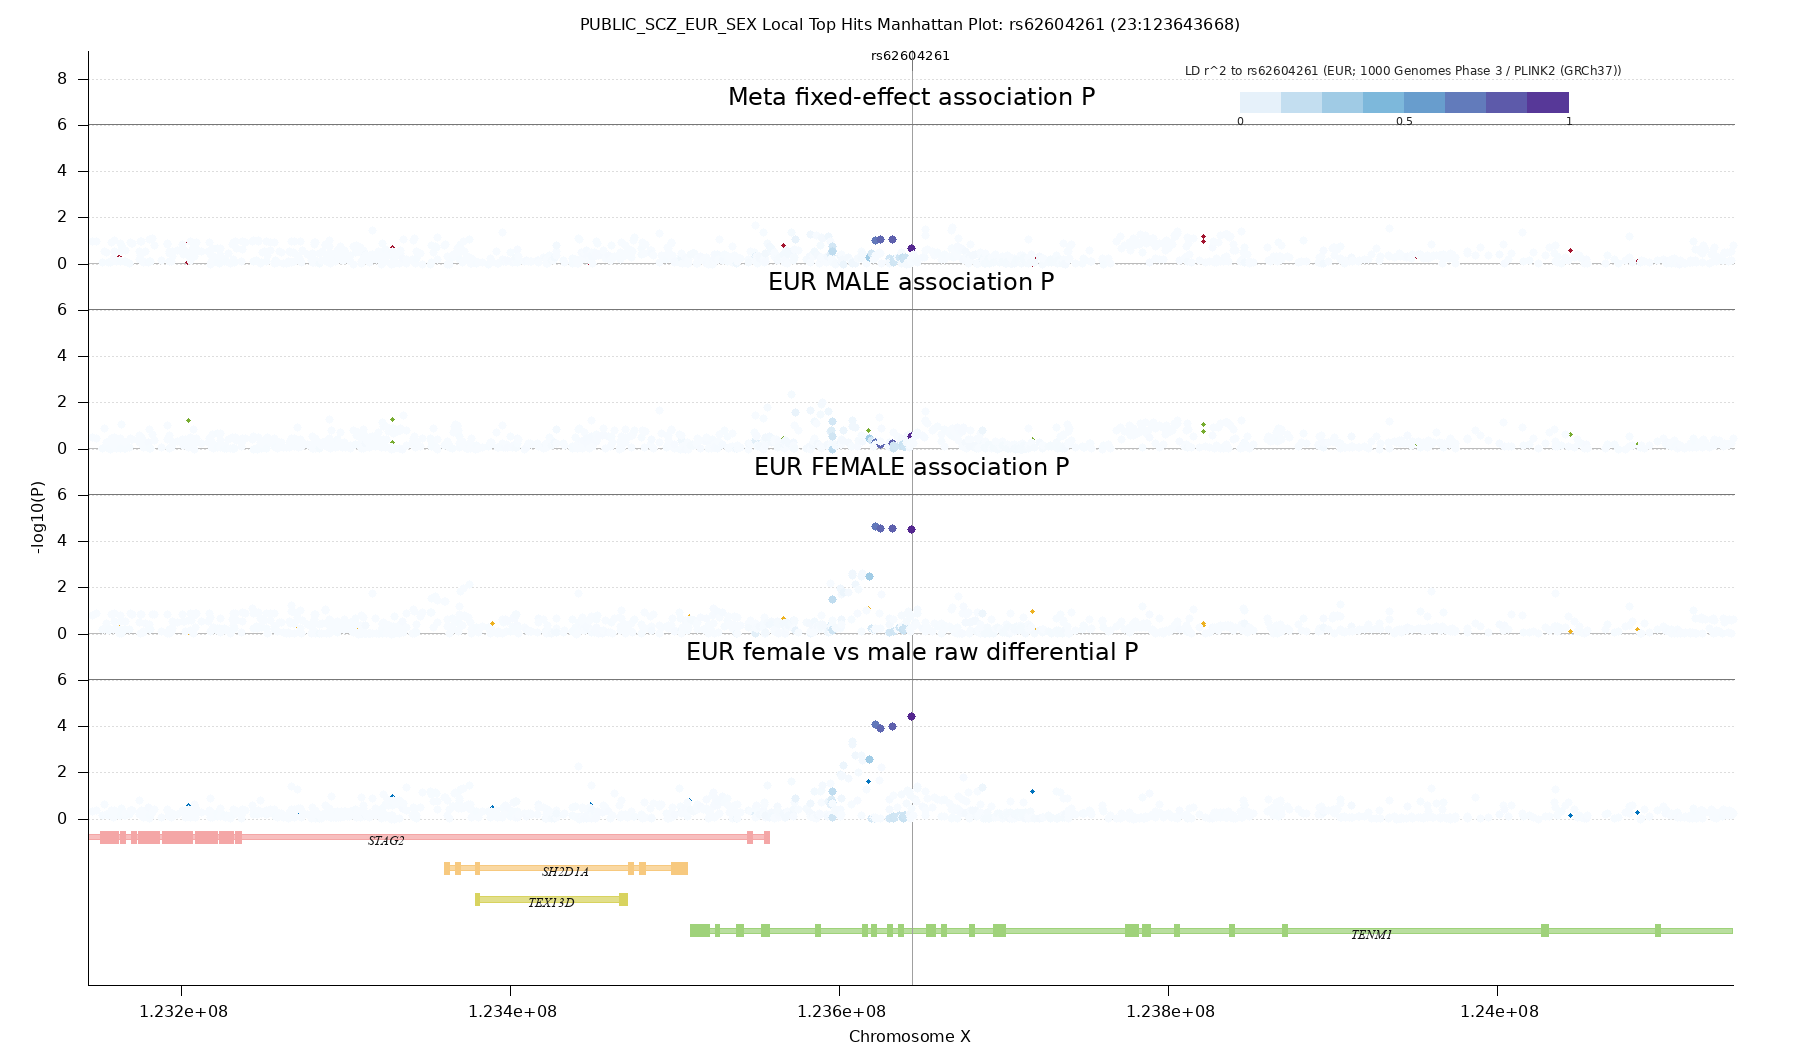
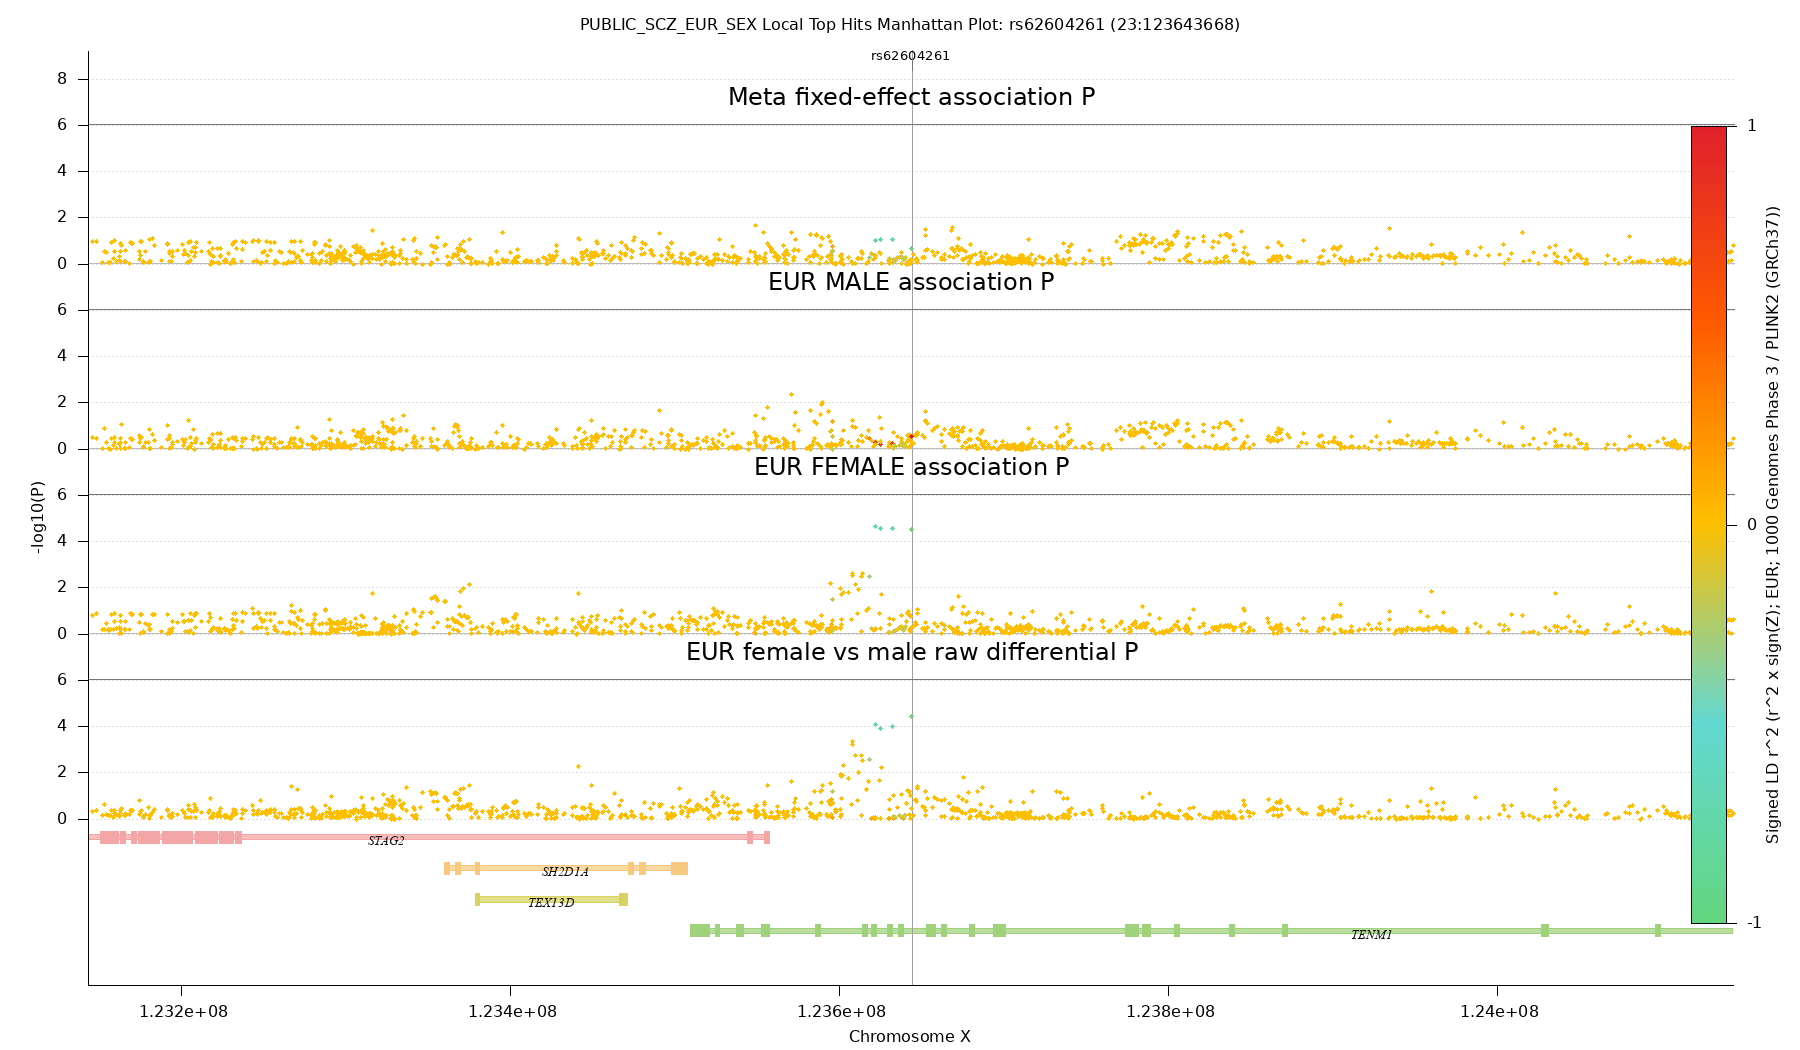
Use signed LD in gnuplot local Manhattan plots

diff --git a/README.md b/README.md
@@ -89,22 +89,6 @@ targets are `rs2232429` (common association), `rs185665940` (autosomal
 differential signal), and `rs62604261` (chromosome-X differential signal).
 Click any figure to open its full-resolution PNG.
 
-#### gnuplot outputs
-
-| Genome-wide Manhattan | Combined local Manhattan |
-| --- | --- |
-| [![gnuplot genome-wide Manhattan](MultiGWAS-Explorer/examples/public-scz-sex/figures/gunplot/PUBLIC_SCZ_EUR_SEX_GUNPLOT_manhattan.png)](MultiGWAS-Explorer/examples/public-scz-sex/figures/gunplot/PUBLIC_SCZ_EUR_SEX_GUNPLOT_manhattan.png) | [![gnuplot combined local Manhattan](MultiGWAS-Explorer/examples/public-scz-sex/figures/gunplot/PUBLIC_SCZ_EUR_SEX_GUNPLOT_local_top_hits_manhattan.png)](MultiGWAS-Explorer/examples/public-scz-sex/figures/gunplot/PUBLIC_SCZ_EUR_SEX_GUNPLOT_local_top_hits_manhattan.png) |
-| Local Manhattan: `rs2232429` | Local Manhattan: `rs185665940` |
-| [![gnuplot local Manhattan rs2232429](MultiGWAS-Explorer/examples/public-scz-sex/figures/gunplot/PUBLIC_SCZ_EUR_SEX_GUNPLOT_local_top_hits_manhattan_rs2232429.png)](MultiGWAS-Explorer/examples/public-scz-sex/figures/gunplot/PUBLIC_SCZ_EUR_SEX_GUNPLOT_local_top_hits_manhattan_rs2232429.png) | [![gnuplot local Manhattan rs185665940](MultiGWAS-Explorer/examples/public-scz-sex/figures/gunplot/PUBLIC_SCZ_EUR_SEX_GUNPLOT_local_top_hits_manhattan_rs185665940.png)](MultiGWAS-Explorer/examples/public-scz-sex/figures/gunplot/PUBLIC_SCZ_EUR_SEX_GUNPLOT_local_top_hits_manhattan_rs185665940.png) |
-| Local Manhattan: `rs62604261` | Signed-LD gene track: `rs2232429` |
-| [![gnuplot local Manhattan rs62604261](MultiGWAS-Explorer/examples/public-scz-sex/figures/gunplot/PUBLIC_SCZ_EUR_SEX_GUNPLOT_local_top_hits_manhattan_rs62604261.png)](MultiGWAS-Explorer/examples/public-scz-sex/figures/gunplot/PUBLIC_SCZ_EUR_SEX_GUNPLOT_local_top_hits_manhattan_rs62604261.png) | [![gnuplot signed LD gene track rs2232429](MultiGWAS-Explorer/examples/public-scz-sex/figures/gunplot/PUBLIC_SCZ_EUR_SEX_GUNPLOT_local_top_hits_with_gtf_rs2232429.png)](MultiGWAS-Explorer/examples/public-scz-sex/figures/gunplot/PUBLIC_SCZ_EUR_SEX_GUNPLOT_local_top_hits_with_gtf_rs2232429.png) |
-| Signed-LD gene track: `rs185665940` | Signed-LD gene track: `rs62604261` |
-| [![gnuplot signed LD gene track rs185665940](MultiGWAS-Explorer/examples/public-scz-sex/figures/gunplot/PUBLIC_SCZ_EUR_SEX_GUNPLOT_local_top_hits_with_gtf_rs185665940.png)](MultiGWAS-Explorer/examples/public-scz-sex/figures/gunplot/PUBLIC_SCZ_EUR_SEX_GUNPLOT_local_top_hits_with_gtf_rs185665940.png) | [![gnuplot signed LD gene track rs62604261](MultiGWAS-Explorer/examples/public-scz-sex/figures/gunplot/PUBLIC_SCZ_EUR_SEX_GUNPLOT_local_top_hits_with_gtf_rs62604261.png)](MultiGWAS-Explorer/examples/public-scz-sex/figures/gunplot/PUBLIC_SCZ_EUR_SEX_GUNPLOT_local_top_hits_with_gtf_rs62604261.png) |
-| Female forest plot | Male forest plot |
-| [![gnuplot female forest plot](MultiGWAS-Explorer/examples/public-scz-sex/figures/gunplot/PUBLIC_SCZ_EUR_SEX_GUNPLOT_top_hits_forest_EUR_FEMALE.png)](MultiGWAS-Explorer/examples/public-scz-sex/figures/gunplot/PUBLIC_SCZ_EUR_SEX_GUNPLOT_top_hits_forest_EUR_FEMALE.png) | [![gnuplot male forest plot](MultiGWAS-Explorer/examples/public-scz-sex/figures/gunplot/PUBLIC_SCZ_EUR_SEX_GUNPLOT_top_hits_forest_EUR_MALE.png)](MultiGWAS-Explorer/examples/public-scz-sex/figures/gunplot/PUBLIC_SCZ_EUR_SEX_GUNPLOT_top_hits_forest_EUR_MALE.png) |
-| Combined female/male forest plot | |
-| [![gnuplot combined forest plot](MultiGWAS-Explorer/examples/public-scz-sex/figures/gunplot/PUBLIC_SCZ_EUR_SEX_GUNPLOT_top_hits_forest_combined.png)](MultiGWAS-Explorer/examples/public-scz-sex/figures/gunplot/PUBLIC_SCZ_EUR_SEX_GUNPLOT_top_hits_forest_combined.png) | |
-
 #### SAS OnDemand for Academics outputs
 
 | Genome-wide Manhattan | Combined local Manhattan |
@@ -120,6 +104,22 @@ Click any figure to open its full-resolution PNG.
 | [![SAS ODA signed LD gene track rs62604261](MultiGWAS-Explorer/examples/public-scz-sex/figures/sas/PUBLIC_SCZ_EUR_SEX_SAS_local_top_hits_with_gtf_rs62604261.png)](MultiGWAS-Explorer/examples/public-scz-sex/figures/sas/PUBLIC_SCZ_EUR_SEX_SAS_local_top_hits_with_gtf_rs62604261.png) | [![SAS ODA female forest plot](MultiGWAS-Explorer/examples/public-scz-sex/figures/sas/PUBLIC_SCZ_EUR_SEX_SAS_top_hits_forest_EUR_FEMALE.png)](MultiGWAS-Explorer/examples/public-scz-sex/figures/sas/PUBLIC_SCZ_EUR_SEX_SAS_top_hits_forest_EUR_FEMALE.png) |
 | Male forest plot | |
 | [![SAS ODA male forest plot](MultiGWAS-Explorer/examples/public-scz-sex/figures/sas/PUBLIC_SCZ_EUR_SEX_SAS_top_hits_forest_EUR_MALE.png)](MultiGWAS-Explorer/examples/public-scz-sex/figures/sas/PUBLIC_SCZ_EUR_SEX_SAS_top_hits_forest_EUR_MALE.png) | |
+
+#### gnuplot outputs
+
+| Genome-wide Manhattan | Combined signed-LD local Manhattan |
+| --- | --- |
+| [![gnuplot genome-wide Manhattan](MultiGWAS-Explorer/examples/public-scz-sex/figures/gunplot/PUBLIC_SCZ_EUR_SEX_GUNPLOT_manhattan.png)](MultiGWAS-Explorer/examples/public-scz-sex/figures/gunplot/PUBLIC_SCZ_EUR_SEX_GUNPLOT_manhattan.png) | [![gnuplot combined signed LD local Manhattan](MultiGWAS-Explorer/examples/public-scz-sex/figures/gunplot/PUBLIC_SCZ_EUR_SEX_GUNPLOT_local_top_hits_manhattan.png)](MultiGWAS-Explorer/examples/public-scz-sex/figures/gunplot/PUBLIC_SCZ_EUR_SEX_GUNPLOT_local_top_hits_manhattan.png) |
+| Signed-LD local Manhattan: `rs2232429` | Signed-LD local Manhattan: `rs185665940` |
+| [![gnuplot signed LD local Manhattan rs2232429](MultiGWAS-Explorer/examples/public-scz-sex/figures/gunplot/PUBLIC_SCZ_EUR_SEX_GUNPLOT_local_top_hits_manhattan_rs2232429.png)](MultiGWAS-Explorer/examples/public-scz-sex/figures/gunplot/PUBLIC_SCZ_EUR_SEX_GUNPLOT_local_top_hits_manhattan_rs2232429.png) | [![gnuplot signed LD local Manhattan rs185665940](MultiGWAS-Explorer/examples/public-scz-sex/figures/gunplot/PUBLIC_SCZ_EUR_SEX_GUNPLOT_local_top_hits_manhattan_rs185665940.png)](MultiGWAS-Explorer/examples/public-scz-sex/figures/gunplot/PUBLIC_SCZ_EUR_SEX_GUNPLOT_local_top_hits_manhattan_rs185665940.png) |
+| Signed-LD local Manhattan: `rs62604261` | Signed-LD gene track: `rs2232429` |
+| [![gnuplot signed LD local Manhattan rs62604261](MultiGWAS-Explorer/examples/public-scz-sex/figures/gunplot/PUBLIC_SCZ_EUR_SEX_GUNPLOT_local_top_hits_manhattan_rs62604261.png)](MultiGWAS-Explorer/examples/public-scz-sex/figures/gunplot/PUBLIC_SCZ_EUR_SEX_GUNPLOT_local_top_hits_manhattan_rs62604261.png) | [![gnuplot signed LD gene track rs2232429](MultiGWAS-Explorer/examples/public-scz-sex/figures/gunplot/PUBLIC_SCZ_EUR_SEX_GUNPLOT_local_top_hits_with_gtf_rs2232429.png)](MultiGWAS-Explorer/examples/public-scz-sex/figures/gunplot/PUBLIC_SCZ_EUR_SEX_GUNPLOT_local_top_hits_with_gtf_rs2232429.png) |
+| Signed-LD gene track: `rs185665940` | Signed-LD gene track: `rs62604261` |
+| [![gnuplot signed LD gene track rs185665940](MultiGWAS-Explorer/examples/public-scz-sex/figures/gunplot/PUBLIC_SCZ_EUR_SEX_GUNPLOT_local_top_hits_with_gtf_rs185665940.png)](MultiGWAS-Explorer/examples/public-scz-sex/figures/gunplot/PUBLIC_SCZ_EUR_SEX_GUNPLOT_local_top_hits_with_gtf_rs185665940.png) | [![gnuplot signed LD gene track rs62604261](MultiGWAS-Explorer/examples/public-scz-sex/figures/gunplot/PUBLIC_SCZ_EUR_SEX_GUNPLOT_local_top_hits_with_gtf_rs62604261.png)](MultiGWAS-Explorer/examples/public-scz-sex/figures/gunplot/PUBLIC_SCZ_EUR_SEX_GUNPLOT_local_top_hits_with_gtf_rs62604261.png) |
+| Female forest plot | Male forest plot |
+| [![gnuplot female forest plot](MultiGWAS-Explorer/examples/public-scz-sex/figures/gunplot/PUBLIC_SCZ_EUR_SEX_GUNPLOT_top_hits_forest_EUR_FEMALE.png)](MultiGWAS-Explorer/examples/public-scz-sex/figures/gunplot/PUBLIC_SCZ_EUR_SEX_GUNPLOT_top_hits_forest_EUR_FEMALE.png) | [![gnuplot male forest plot](MultiGWAS-Explorer/examples/public-scz-sex/figures/gunplot/PUBLIC_SCZ_EUR_SEX_GUNPLOT_top_hits_forest_EUR_MALE.png)](MultiGWAS-Explorer/examples/public-scz-sex/figures/gunplot/PUBLIC_SCZ_EUR_SEX_GUNPLOT_top_hits_forest_EUR_MALE.png) |
+| Combined female/male forest plot | |
+| [![gnuplot combined forest plot](MultiGWAS-Explorer/examples/public-scz-sex/figures/gunplot/PUBLIC_SCZ_EUR_SEX_GUNPLOT_top_hits_forest_combined.png)](MultiGWAS-Explorer/examples/public-scz-sex/figures/gunplot/PUBLIC_SCZ_EUR_SEX_GUNPLOT_top_hits_forest_combined.png) | |
 
 Clone the repository and open
 [`examples/public-scz-sex/results.html`](MultiGWAS-Explorer/examples/public-scz-sex/results.html)

diff --git a/MultiGWAS-Explorer/README.md b/MultiGWAS-Explorer/README.md
@@ -2485,14 +2485,16 @@ so every estimable pair in the configured window is retained for coloring.
 not remove lower-r² values from the color map. The normalized sidecar and plot
 manifest record the complete available row count and a provenance signature.
 
-The gnuplot `local_gtf` plot defaults to a signed-LD heatmap. For GRCh38/hg38
+The gnuplot local Manhattan and `local_gtf` plots default to a signed-LD
+heatmap when Z scores and LD values are available. For GRCh38/hg38
 GWAS it downloads the matching chromosome from the official
 [PLINK2 1000 Genomes Phase 3 resources](https://www.cog-genomics.org/plink/2.0/resources)
 on first use; GRCh37/hg19 GWAS use the configured hg19 panel. It calculates
 phased r2 against each plotted target SNP. Downloaded reference files and the
 PLINK2 binary are cached locally and excluded from Git. Use
-`--ld-display-mode none` to turn off the gnuplot GTF heatmap, or `both` to add
-LD markers. The gnuplot local Manhattan default remains unchanged. A
+`--ld-display-mode none` to turn off the gnuplot heatmap, or `both` to add
+LD markers. Both local plot families color each point by `r² × sign(Z)` on a
+diverging scale from -1 to 1. A
 SAS ODA `plot_local_gtf` run with explicit target SNPs also defaults to the
 signed-LD heatmap when no LD display mode is set. For a merged-wide GWAS, it sorts and
 tabix-indexes the wide table once, reuses that index on later runs, and

diff --git a/MultiGWAS-Explorer/install/PUBLIC_GWAS_RESULTS.md b/MultiGWAS-Explorer/install/PUBLIC_GWAS_RESULTS.md
@@ -22,7 +22,9 @@ Manhattan and local GTF sidecars:
 Each locus has four association tracks, so the manifests record 9,620, 7,480,
 and 4,664 colored point records respectively. The focused Perl regression also
 verifies that a below-threshold proxy remains colored without receiving a
-high-LD marker.
+high-LD marker. Local Manhattan and local GTF panels both use the signed
+`R² × sign(Z)` scale from -1 to 1; this keeps direction and LD strength
+comparable across the two gnuplot plot families.
 
 ## Follow-up correction: forest text and output discoverability
 
@@ -105,6 +107,8 @@ The full numerical scan took 401 seconds; gnuplot genome-wide rendering took
 - Separate complete R² color data from thresholded high-LD markers. Heatmap
   caches now use PLINK2 minimum r² 0, and sidecars store marker status in a
   distinct column.
+- Apply `R² × sign(Z)` to gnuplot local Manhattan panels as well as gene-track
+  panels, and invalidate older unsigned local-plot caches.
 
 The first full standardized-index attempt failed before the path correction;
 the existing standardized table was subsequently indexed successfully without

diff --git a/MultiGWAS-Explorer/install/VALIDATION.md b/MultiGWAS-Explorer/install/VALIDATION.md
@@ -167,9 +167,11 @@ only. The local Manhattan and local GTF manifests agree and report:
 | rs185665940 | 15,367 | 1,870 | 8 |
 | rs62604261 | 7,519 | 1,166 | 21 |
 
-All six local PNGs were visually inspected: three local Manhattan plots show
-the full 0-to-1 R² scale, and three local GTF plots show the signed -1-to-1
-scale. Manifest provenance records the plotting TSV, threshold-0 PLINK2 source,
+All six target-specific local PNGs were visually inspected. The three local
+Manhattan plots and three local GTF plots use the signed -1-to-1
+`R² × sign(Z)` scale. The combined three-locus local Manhattan panel uses the
+same scale and colorbar. Manifest provenance records the plotting TSV,
+threshold-0 PLINK2 source,
 complete sidecar row count, marker threshold, and sidecar signature. The public
 validation rejects missing rows, a thresholded source cache, incorrect signed
 mode, or a source other than the PLINK2 Phase 3 cache.

diff --git a/MultiGWAS-Explorer/install/PUBLIC_GWAS_TEST.md b/MultiGWAS-Explorer/install/PUBLIC_GWAS_TEST.md
@@ -63,8 +63,9 @@ perl install/run_public_sex_gwas.pl \
 The gnuplot validation requires threshold-0 PLINK2 caches for both the local
 Manhattan and local GTF figures. It checks that every non-reference cache row
 is copied into the R² sidecar, that the marker threshold remains 0.1, and that
-the sidecar has a stable provenance signature. Thus a figure cannot pass by
-coloring only the high-LD marker subset.
+the sidecar has a stable provenance signature. It also requires both plot
+families to use `R² × sign(Z)` on the -1-to-1 scale. Thus a figure cannot pass
+by coloring only the high-LD marker subset or by using unsigned R².
 
 To test both plotting backends with an already configured SAS ODA account:
 

diff --git a/MultiGWAS-Explorer/examples/public-scz-sex/README.md b/MultiGWAS-Explorer/examples/public-scz-sex/README.md
@@ -21,7 +21,8 @@ SHA-256 checksum of each copied image.
 - Inquiry targets were `rs2232429`, `rs185665940`, and `rs62604261`.
 - Gnuplot local Manhattan and GTF heatmaps use phased EUR 1000 Genomes Phase 3
   threshold-0 LD caches. Their complete sidecars contain 18,917, 15,367, and
-  7,519 non-reference R² values; the 0.1 cutoff controls marker symbols only.
+  7,519 non-reference R² values; both plot families display `R² × sign(Z)`
+  from -1 to 1, while the 0.1 cutoff controls marker symbols only.
 
 The machine-readable row counts and targets are in `numeric_validation.json`
 and `targets.txt`. See the
